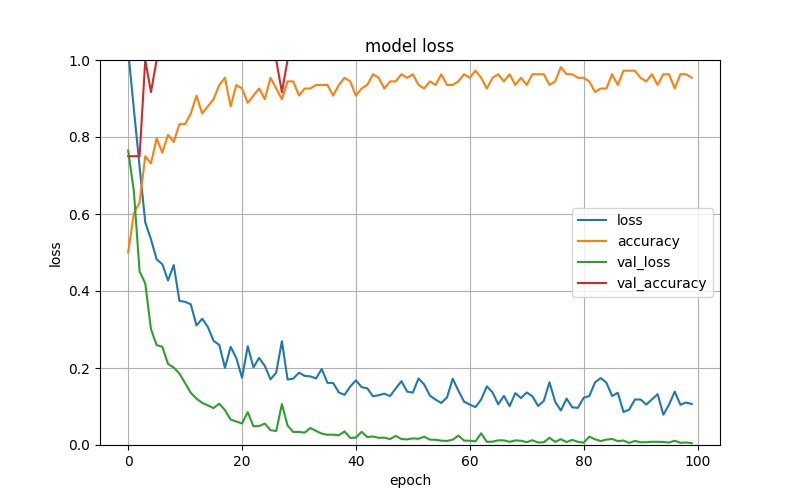
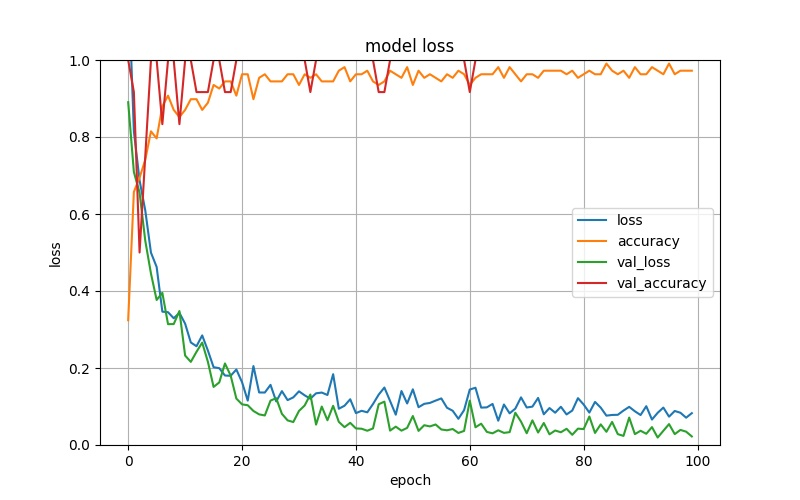
Committed 2021/05/07

Changed region(s): [[0.1562, 0.12, 0.875, 0.9]]

diff --git a/Deep_learning_class_2021/Keras/April19_with_pandas_plot2.py b/Deep_learning_class_2021/Keras/April19_with_pandas_plot2.py
@@ -1,0 +1,56 @@
+import keras
+from keras.models import Sequential
+from keras.layers import Dense, Dropout, Activation, Flatten
+from sklearn.datasets import load_iris
+from sklearn.model_selection import train_test_split
+import matplotlib.pyplot as plt
+import pandas as pd
+
+iris = load_iris()
+iris_data=iris.data
+print(iris_data)
+X_train, X_test, y_train, y_test = train_test_split(iris_data, iris.target, test_size=0.2);
+
+# Lay the foundation of the model. / Get the model off the ground.
+model = Sequential()
+
+# Feed input's shape to the model.
+model.add(keras.Input(shape=(4, 1)));
+
+# Flatten() reshapes the input into one-dimension.
+model.add(Flatten());
+
+# Dense() means the fully-connected layers.
+model.add(Dense(units=64, activation="relu", name="layer1"))
+
+# Dropout means to drop out the specified percent of input data.
+model.add(Dropout(0.2))
+
+# Configure the second layer
+model.add(Dense(units=128, activation="relu", name="layer2"))
+model.add(Dropout(rate=0.2))
+
+model.add(Dense(units=3, activation="softmax", name="layers3"));
+
+# Printing out model information
+print(model.summary());
+
+# All set, let's compile the model! (initialization)
+model.compile(optimizer='adam', loss="sparse_categorical_crossentropy", metrics=["accuracy"]);
+# "sparse_categorical_crossentropy" differs from "categorical_crossentropy" in that
+# it automatically attains one-hot encoding.
+
+# Train the algorithm
+history = model.fit(x=X_train, y=y_train, batch_size=5, validation_split=0.1, epochs=100);
+## validation_split refers to spliting the dataset for validation.
+
+pd.DataFrame(data=history.history).plot(figsize=(8, 5))
+plt.grid(True)
+
+plt.ylabel("loss")
+plt.xlabel("epoch")
+plt.title("model loss")
+
+plt.savefig("April19_without_ceiling.jpg")
+
+plt.show()
